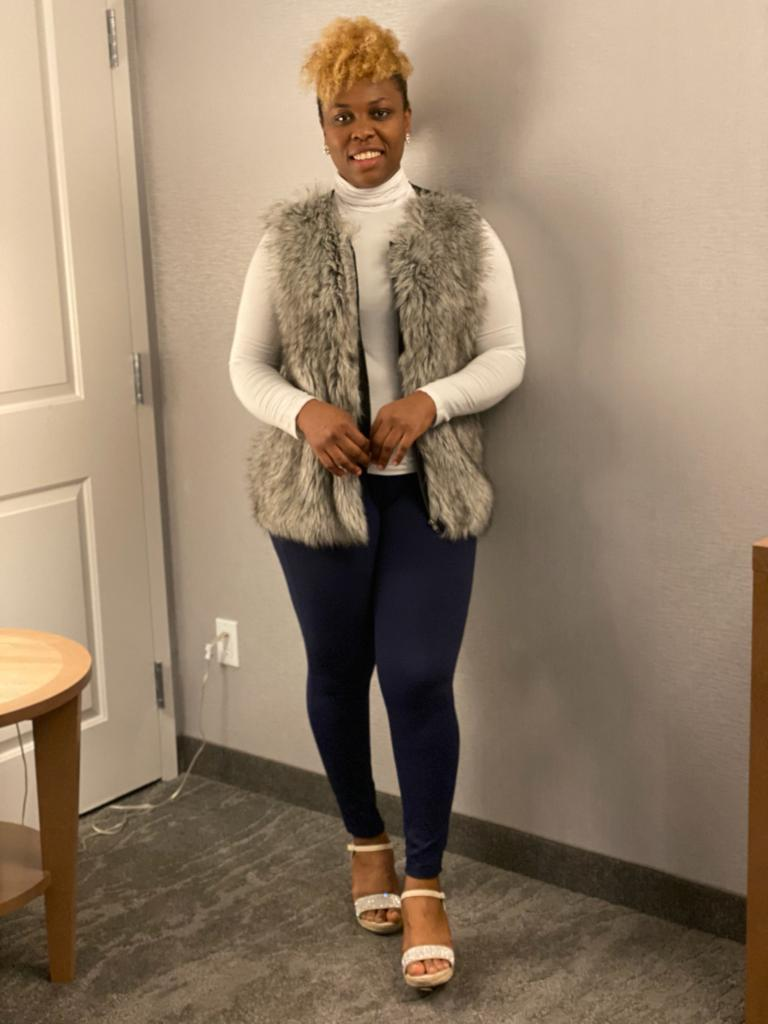
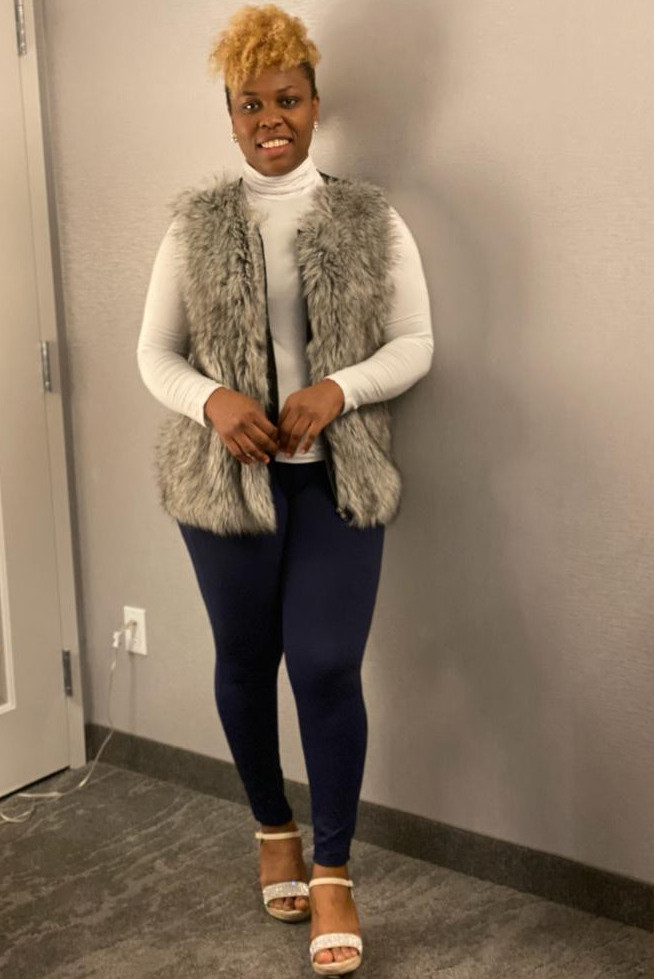
edited the about message

diff --git a/templates/about.html b/templates/about.html
@@ -68,20 +68,27 @@
     <div class="row about-tp mt-md-5 pt-5">
       <div class="col-lg-4 welcome-right">
         <div class="welcome-right-top">
-          <img src="{% static 'images/gcos3.jpeg' %}" alt="" class="img-fluid">
+          <img src="{% static 'images/gcos1.jpeg' %}" alt="" class="img-fluid">
         </div>
       </div>
       <div class="col-lg-8 welcome-left">
         <h3>Goodness C. Okwueze</h3>
-        <h4>
-          Your resource guide to financial freedom!
-        </h4>
+
+          <!-- Your resource guide to financial freedom! <h4></h4> -->
+
         <p style="text-align:justify;">
-          Goodness Chimaobi Okwueze is a scrum master (servant leader) where she serves as a Personal Support Worker in Canada. She was born in a business-oriented family in Nigeria and is honored to be able to socialize with people of different races and religious orientation, just like in Canada, which allows her to manage and advise all kinds of people. She currently holds a Bachelor's degree in the field of Nursing Science.
+          Goodness Chimaobi Okwueze is a scrum master (servant leader),
+          she also serves as a Personal Support Worker (PSW) in Canada,
+          her current place of residence. She was born into a business-oriented family in Nigeria
+          and is honored to be able to socialize with people of different ethnicity,
+          religious orientation, and works of life, just like in Canada.
+          This leadership attribute allows her to manage and advise all kinds of people.
+          Goodness holds a Bachelor's degree in the field of Nursing Science.
         </p>
 
         <p style="text-align:justify;">
-          As a growing child, Goodness had the privileged of learning the shared values of her parents in the area of financial responsibility. Being exposed to her dad's investments at the time helped her to understand the importance of investing in shares and stocks as her father would always fall back to them in challenging times.
+          As a growing child, Goodness had the privileged of learning the shared values of her parents in the area of financial responsibility.
+          Being exposed to her dad's investments at the time helped her to understand the importance of investing in shares and stocks as her father would always fall back to them in challenging times.
         </p>
         <p style="text-align:justify;">
           Goodness' interest in the field of financial freedom, further propelled her into learning more from experts and world recognized organizations. Currently, she earns higher income while continuing her studies in this field, and is happy to work with families and individuals on the best ways to help them stabilize their finances.

diff --git a/contact/templates/contact/contact.html b/contact/templates/contact/contact.html
@@ -36,7 +36,7 @@
           <div class="col-lg-6 col-md-6 contact-address">
               <!-- <h4 class="mb-4 w3f_title">Contact Address</h4> -->
               <ul class="list-w3">
-                  <li class="d-flex"><span class="fa mt-1 mr-1 fa-map-marker"></span>2130 Fulton Street, San Diego,  CA 94117-1080 USA</li>
+                  <li class="d-flex"><span class="fa mt-1 mr-1 fa-map-marker"></span>106-1701 Woodward drive Ottawa, ON K2C0R4</li>
                   <li class="my-3"><span class="fa mr-1 fa-phone"></span>+1 (613) 700-5069</li>
                   <!-- <li class="my-3"><span class="fa mr-1 fa-phone"></span>1-600-1234-567</li> -->
                   <li class=""><span class="fa mr-1 fa-envelope"></span><a href="">info@gcofinance.com</a></li>
